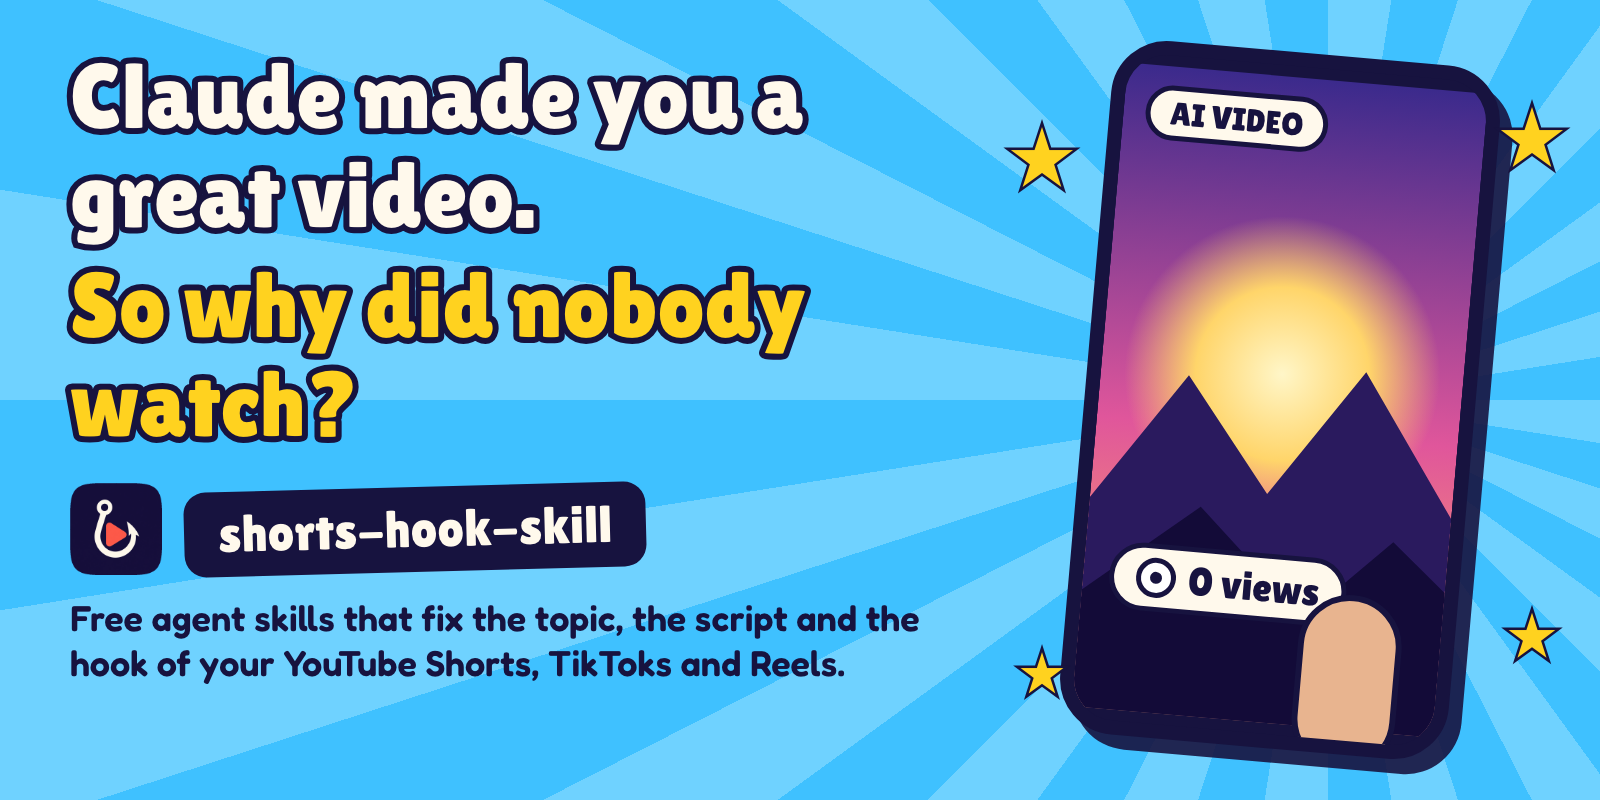
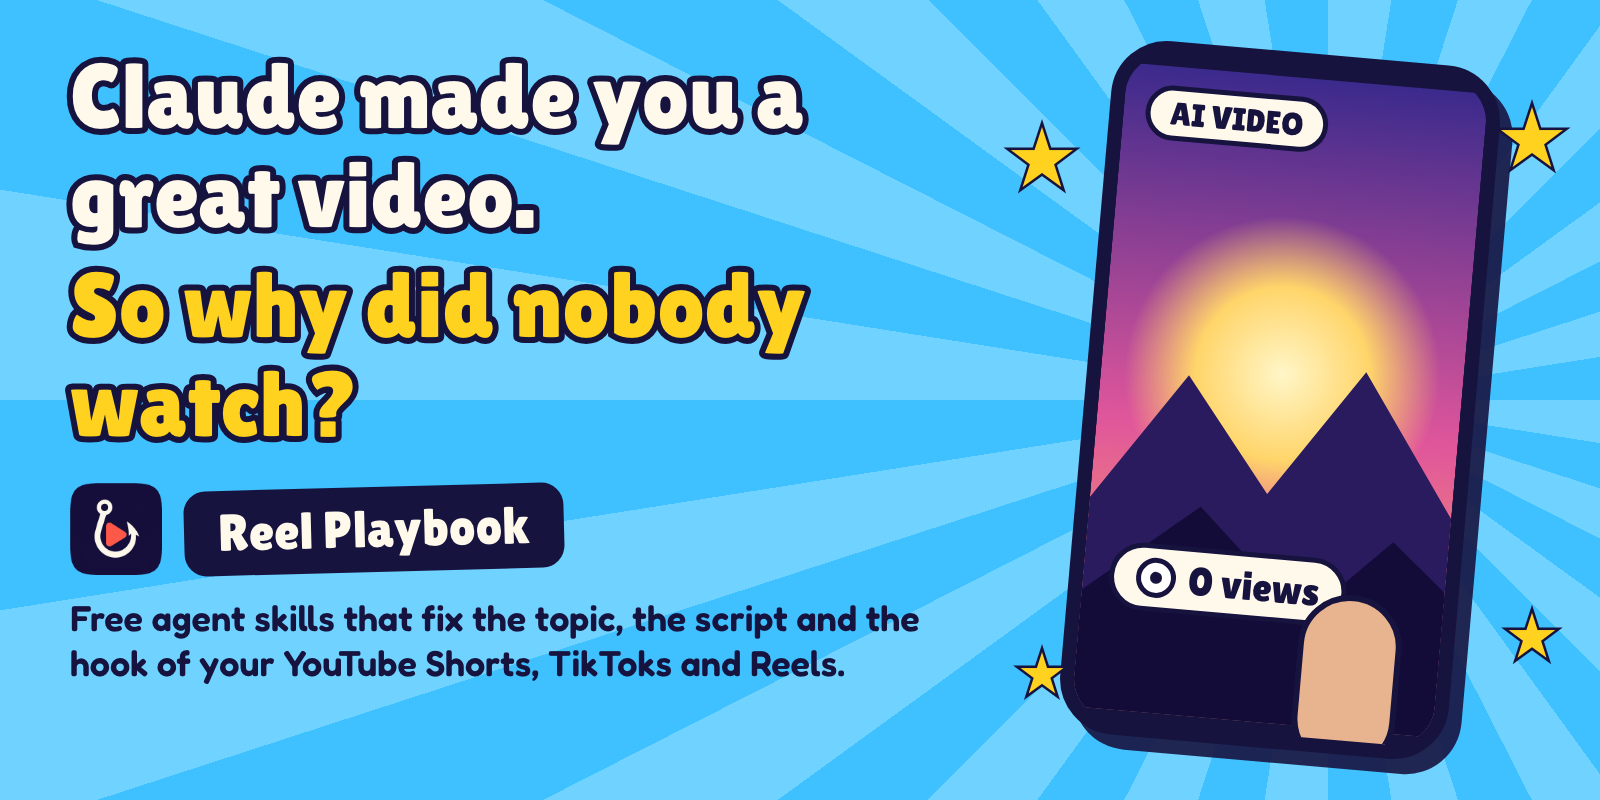
Rename to Reel Playbook

Changed region(s): [[0.125, 0.5938, 0.4062, 0.7188]]

diff --git a/docs/assets/src/hero.html b/docs/assets/src/hero.html
@@ -17,7 +17,7 @@ body { height:800px; position:relative; background:var(--sky); }
 <div class="copy">
   <div class="h1 outline">Claude made you a great video.</div>
   <div class="h2">So why did nobody watch?</div>
-  <div class="brand"><img src="../icon.png" alt=""><div class="name">shorts-hook-skill</div></div>
+  <div class="brand"><img src="../icon.png" alt=""><div class="name">Reel Playbook</div></div>
   <div class="tag">Free agent skills that fix the topic, the script and the hook of your YouTube Shorts, TikToks and Reels.</div>
 </div>
 <div class="phone">

diff --git a/README.md b/README.md
@@ -1,8 +1,8 @@
 <p align="center">
-  <img src="docs/assets/hero.png" alt="Claude made you a great video. So why did nobody watch? shorts-hook-skill: free agent skills that fix the topic, the script and the hook of your YouTube Shorts, TikToks and Reels." width="100%">
+  <img src="docs/assets/hero.png" alt="Claude made you a great video. So why did nobody watch? Reel Playbook: free agent skills that fix the topic, the script and the hook of your YouTube Shorts, TikToks and Reels." width="100%">
 </p>
 
-<h1 align="center">shorts-hook-skill</h1>
+<h1 align="center">Reel Playbook</h1>
 
 <p align="center">
   <strong>Free Claude skills that write and review YouTube Shorts, TikToks and Instagram Reels people keep watching.</strong><br>
@@ -29,11 +29,11 @@ You had Claude make a video. The script reads fine. The visuals look great. Nobo
 ## Install in 30 seconds
 
 ```bash
-claude plugin marketplace add opus-pro/shorts-hook-skill
+claude plugin marketplace add opus-pro/reel-playbook
 ```
 
 ```bash
-claude plugin install shorts-hook-skill@shorts-hook-skill
+claude plugin install reel-playbook@reel-playbook
 ```
 
 Then just ask:
@@ -157,12 +157,12 @@ Sources are paraphrased and credited in [`method.md`](skills/hooks/references/me
 <details>
 <summary><strong>Install options</strong></summary>
 
-**Claude Code plugin:** the two commands above give you `shorts-hook-skill:hooks` and `shorts-hook-skill:topics`.
+**Claude Code plugin:** the two commands above give you `reel-playbook:hooks` and `reel-playbook:topics`.
 
 **From a local copy:** run this from the folder that holds this one, then install as above.
 
 ```bash
-claude plugin marketplace add ./shorts-hook-skill
+claude plugin marketplace add ./reel-playbook
 ```
 
 **Copy a skill:** copy `skills/hooks/` or `skills/topics/` into `~/.claude/skills/` for every project, or into `.claude/skills/` for one project.

diff --git a/docs/topics.md b/docs/topics.md
@@ -87,14 +87,14 @@ Shorts, trends and the web, and the creator's own Insights feed the Learn step.
 
 ## Install
 
-Topics ships in the same plugin as Hooks. From the folder that holds this `shorts-hook-skill` folder (unzipped or cloned):
+Topics ships in the same plugin as Hooks. From the folder that holds this `reel-playbook` folder (unzipped or cloned):
 
 ```bash
-claude plugin marketplace add ./shorts-hook-skill
+claude plugin marketplace add ./reel-playbook
 ```
 
 ```bash
-claude plugin install shorts-hook-skill@shorts-hook-skill
+claude plugin install reel-playbook@reel-playbook
 ```
 
 **Claude Code (copy the skill):** copy `skills/topics/` into `~/.claude/skills/` for every

diff --git a/CONTRIBUTING.md b/CONTRIBUTING.md
@@ -1,4 +1,4 @@
-# Contributing to shorts-hook-skill
+# Contributing to Reel Playbook
 
 Thanks for helping out. A good change here makes the advice more accurate or the tools more reliable.
 
